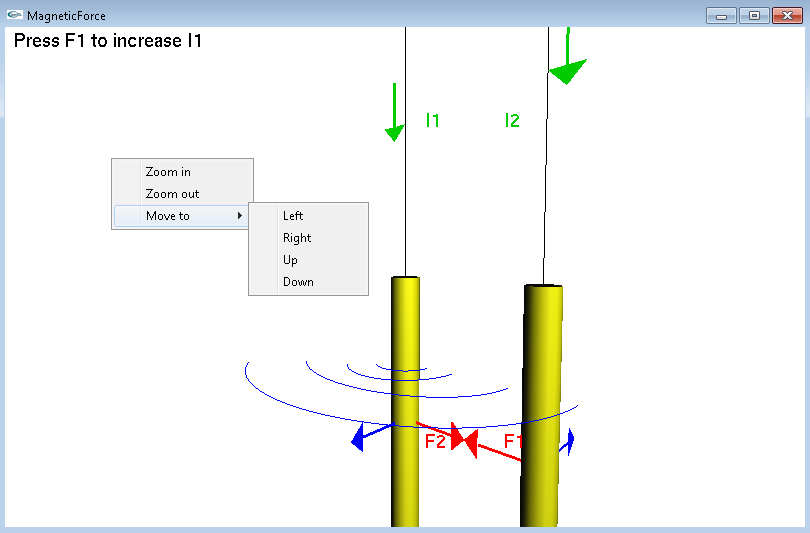
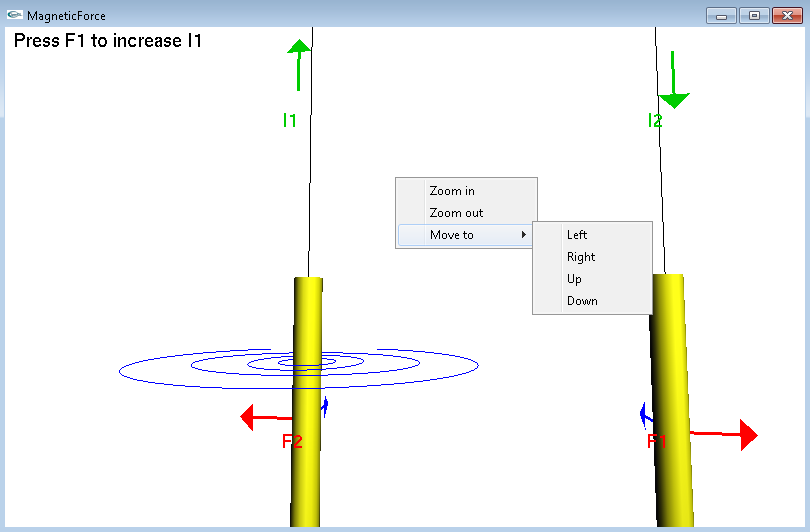
2nd commit

diff --git a/MagneticForce/Main.cpp b/MagneticForce/Main.cpp
@@ -37,7 +37,7 @@ int matrixAngle[6][2]={ //definise lukove koje treba zanemariti pri crtanju elip
 	{-135,180},
 	{-90,135}};
 
-int matrixDistance[4][2]={ //vrijednosti elipsi!Birane tako da su silnice pri provodniku gusce, a s povecenjem rastojanja-rjedje!
+int matrixDistance[4][2]={ //vrijednosti elipsi!Birane tako da su silnice pri provodniku gusce (zavisno od rastojanja).
 	{1.25,1.0},
 	{2.5,2.0},
 	{4.375,3.5},  
@@ -51,7 +51,7 @@ GLfloat xView=0.0, yView=5.0, zView=15.0;    //inicijalne vrijednosti za transf.
 
 GLUquadricObj *qobj=gluNewQuadric();		//pomocna za kreiranje cilindara/provodnika!
 
-const GLfloat light[4][4]={                 //karakteristike materijala
+const GLfloat light[4][4]={                 //karakteristike izvora
 	{10.0,10.0,10.0,1.0},	
 	{1.0,1.0,1.0,1.0},		
 	{1.0,1.0,1.0,1.0},		
@@ -65,16 +65,15 @@ const GLfloat shininess=10.0;
 
 //----------------------CRTANJE ELIPSE (OBICNA)------------------------------------------------------------
 void drawEllipse(float radiusX, float radiusY,int from, int to){
-   glBegin(GL_LINE_STRIP);  //elipsa se crta kao niz linija
-   for(int i=from;i<to;i++)
-   {
-      float rad = i*DEG2RAD;
-      glVertex2f(cos(rad)*radiusX,sin(rad)*radiusY);
-   }
+   glBegin(GL_LINE_STRIP); 
+		for(int i=from;i<to;i++){
+			float rad = i*DEG2RAD;
+			glVertex2f(cos(rad)*radiusX,sin(rad)*radiusY);
+			}
    glEnd();
 }
 
-void spinEllipse(GLfloat increment,int id){			//speedLimiter - da se ne vrti previse! Da se mogu uociti prazni lukovi!
+void spinEllipse(GLfloat increment,int id){			//speedLimiter - da se ne vrti prebrzo, da se mogu uociti prazni lukovi!
 	glPushMatrix();
 	glTranslatef(increment,0,0);
 	if(matrixProperties[id][0]<speedMax)
@@ -132,7 +131,7 @@ void print(int x, int y, const char *string, int mode){       //x, y koordinate 
 					if(textSpeed1<0.05)
 						textSpeed1=textSpeed1+textSpeedIncDec;
 					}
-					}
+				}
 				else if(mode==2){
 				glTranslatef(textSpeed2,0,0);
 				if(!sameDirection){
@@ -147,7 +146,7 @@ void print(int x, int y, const char *string, int mode){       //x, y koordinate 
 			glDepthFunc(GL_ALWAYS);
 			glRasterPos2f(x, y);
 			for(int i=0;i<strlen(string);++i)
-			glutBitmapCharacter(GLUT_BITMAP_HELVETICA_18,string[i]);
+				glutBitmapCharacter(GLUT_BITMAP_HELVETICA_18,string[i]);
 			glDepthFunc(GL_LESS);
 		glPopMatrix();
 		glMatrixMode(GL_MODELVIEW);
@@ -312,25 +311,7 @@ void display(void){
 	print(screenWidth/2,screenHeight*0.84,"F2",1);
 //-----------------------------CRTANJE VEKTORA MAGNETNE INDUKCIJE------------------------------------------------------------
 	glColor3f(0,0,1);
-	if(sameDirection){  
-	glPushMatrix();   //crtanje F2!
-		glTranslatef(translateSpeed1,0,0);
-		glBegin(GL_LINES);
-			glVertex3f(0,-5,cylindarRadius);
-			glVertex3f(0,-5,cylindarRadius+lengthArrow);
-		glEnd();
-	glPopMatrix();
-	glPushMatrix(); 
-	glTranslatef(translateSpeed1,0,0);
-		glBegin(GL_TRIANGLES);
-			glVertex3f(0,-5,cylindarRadius+lengthArrow+triangleSize);
-			glVertex3f(0,-4.5,cylindarRadius+lengthArrow);
-			glVertex3f(0,-5.5,cylindarRadius+lengthArrow);
-		glEnd();
-	glPopMatrix();
-	}
-else {	
-		glPushMatrix();
+	glPushMatrix();
 		glTranslatef(translateSpeed1,0,0);
 		glBegin(GL_LINES);
 			glVertex3f(0,-5,-cylindarRadius);
@@ -345,7 +326,25 @@ else {
 			glVertex3f(0,-5.5,-(cylindarRadius+lengthArrow));
 		glEnd();
 	glPopMatrix();
+
+	if(sameDirection){ 
+		glPushMatrix();
+		glTranslatef(translateSpeed2,0,0);
+		glBegin(GL_LINES);
+			glVertex3f(5,-5,+cylindarRadius);
+			glVertex3f(5,-5,cylindarRadius+lengthArrow);
+		glEnd();
+	glPopMatrix();
+	glPushMatrix(); 
+	glTranslatef(translateSpeed2,0,0);
+		glBegin(GL_TRIANGLES);
+			glVertex3f(5,-5,cylindarRadius+lengthArrow+triangleSize);
+			glVertex3f(5,-4.5,cylindarRadius+lengthArrow);
+			glVertex3f(5,-5.5,cylindarRadius+lengthArrow);
+		glEnd();
+	glPopMatrix();
 	}
+else {	
 	glPushMatrix();
 		glTranslatef(translateSpeed2,0,0);
 		glBegin(GL_LINES);
@@ -361,9 +360,10 @@ else {
 			glVertex3f(5,-5.5,-(cylindarRadius+lengthArrow));
 		glEnd();
 	glPopMatrix();
-	
+	}
+
 	glEnable(GL_LIGHTING);
-	glRotatef(90,1,0,0);			//po defaultu cilindri su orijentisani duz z ose!
+	glRotatef(90,1,0,0);			//po defaultu cilindri orijentisani duz z ose!
 
 	glPushMatrix();      //--------------------------------------------CRTANJE 1.CILINDRA------------------
 		glTranslatef(translateSpeed1,0,0);
@@ -391,8 +391,8 @@ else {
 	glTranslatef(translateSpeed2,0,0);
     gluCylinder(qobj,0.5,0.5, 10, 16, 20);   //drugi cilindar pomijeren u odnosu na prethodni!
 	if(sameDirection){
-		if(translateSpeed2>-0.01*ratio)
-			translateSpeed2=(translateSpeed2-0.001)*ratio;	
+		if(translateSpeed2>-0.01)
+			translateSpeed2=(translateSpeed2-0.001)*ratio;	//TREBA PROMIJENITI USLOV ZA RATIO!
 	}
 	else{
 		if(translateSpeed2<5.0*ratio)
@@ -413,20 +413,20 @@ else {
 
 void specialInput(int key,int x,int y){
 	switch(key){
-	case GLUT_KEY_UP:
+		case GLUT_KEY_UP:
 			yView=yView+2.0;
 			break;
-	case GLUT_KEY_DOWN:
+		case GLUT_KEY_DOWN:
 			yView=yView-2.0;
 			break;
-	case GLUT_KEY_LEFT:
+		case GLUT_KEY_LEFT:
 			xView=xView-2.0;
 			break;
-	case GLUT_KEY_RIGHT:
+		case GLUT_KEY_RIGHT:
 			xView=xView+2.0;
 			break;
-	case GLUT_KEY_F1:
-			i1=i1+0.1;
+		case GLUT_KEY_F1:
+			i1=i1+0.01;
 	}
 	ratio=i1/i2; 
 	glFlush();
@@ -434,7 +434,7 @@ void specialInput(int key,int x,int y){
 
 void reshape(int w, int h){
 	glViewport(0,0,w,h);
-	screenHeight=h;
+	screenHeight=h;  //radi teksta!
 	screenWidth=w;
 	glMatrixMode(GL_PROJECTION);
 	glLoadIdentity();
